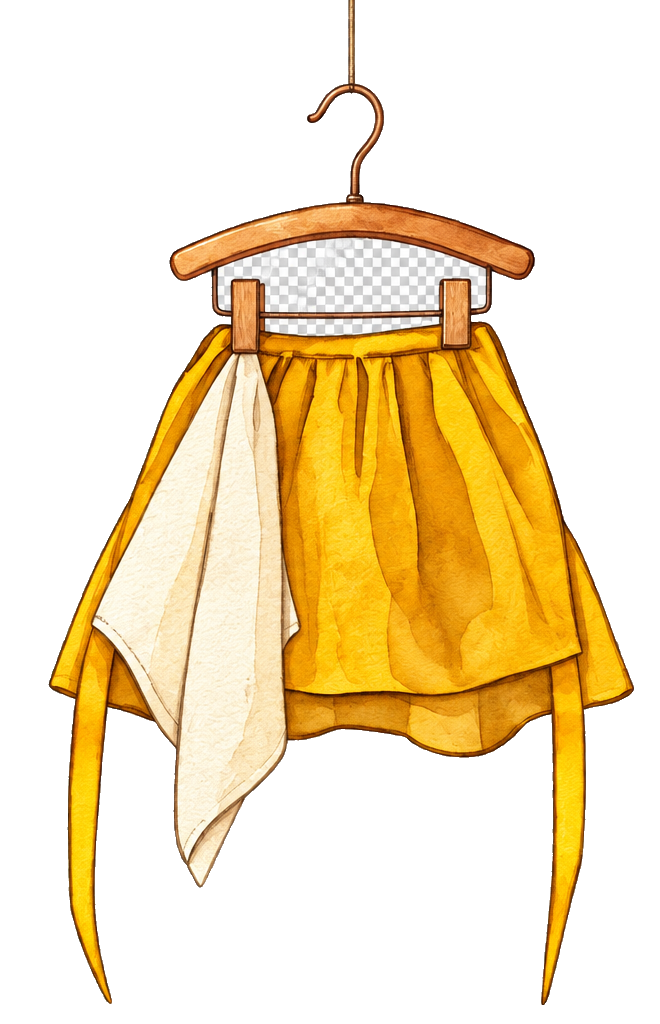
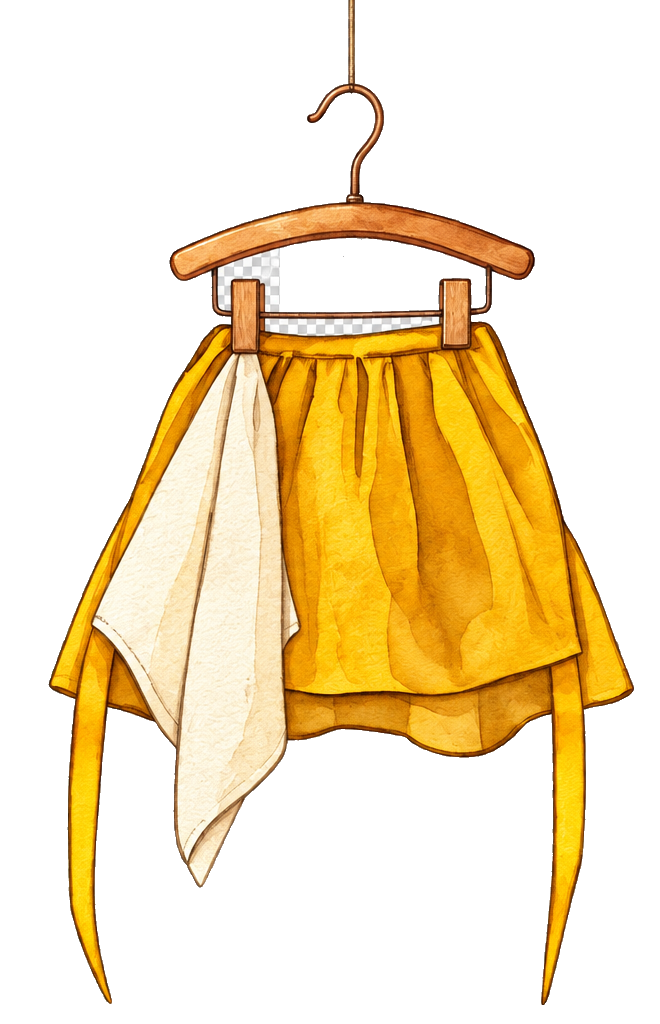
Clean hanger and style mobile navigation strip

Changed region(s): [[0.4242, 0.2188, 0.7273, 0.3125]]

diff --git a/assets/hanging-cloth.css b/assets/hanging-cloth.css
@@ -48,26 +48,28 @@
   }
 
   .navlinks {
-    flex: 0 0 100%;
-    gap: 0;
+    display: flex;
+    flex: 0 0 calc(100% + 5vw + 164px);
+    width: calc(100% + 5vw + 164px);
+    box-sizing: border-box;
+    justify-content: center;
+    gap: clamp(2px, 1vw, 8px);
+    margin: 42px -164px 0 -5vw;
+    padding: 8px 5vw;
+    background: var(--color-sand);
+    border-block: 1px solid var(--color-line);
+    font-size: clamp(8px, 2.5vw, 10px);
+    letter-spacing: 0.02em;
   }
 
   .navlinks a {
-    flex: 0 0 auto;
+    flex: 1 1 0;
+    min-width: 0;
+    padding: 7px 0;
+    border: 1px solid var(--color-line);
+    background: var(--color-paper);
+    text-align: center;
     white-space: nowrap;
-  }
-}
-
-@media (max-width: 500px) {
-  .navlinks {
-    display: flex;
-    flex: 0 0 calc(100% + 92px);
-    width: calc(100% + 92px);
-    justify-content: space-between;
-    margin-top: 42px;
-    margin-right: -92px;
-    font-size: 9px;
-    letter-spacing: 0.04em;
   }
 }
 
